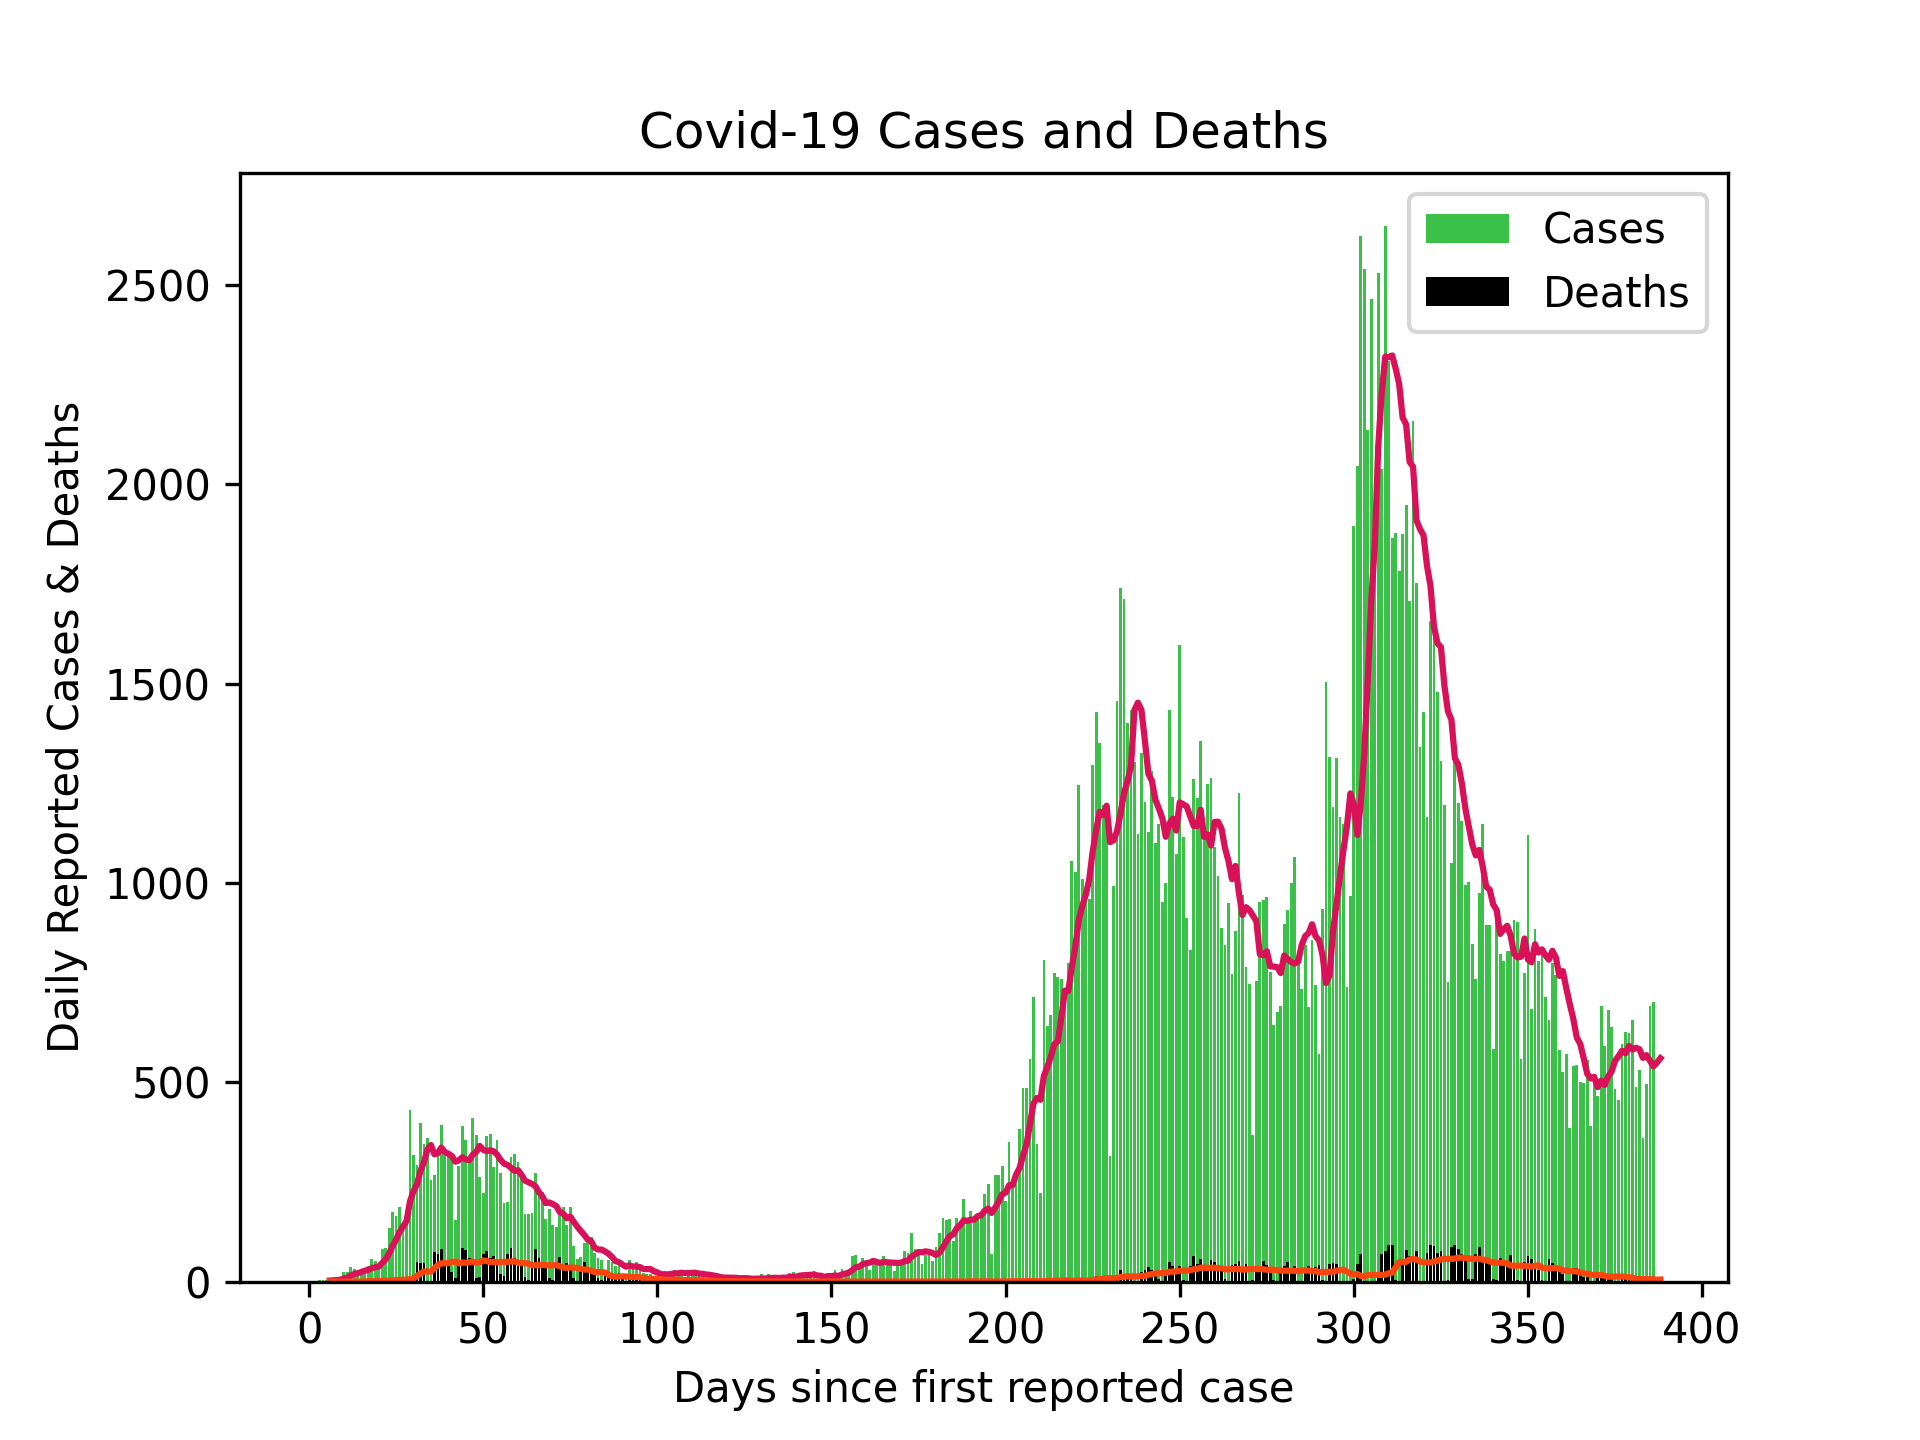
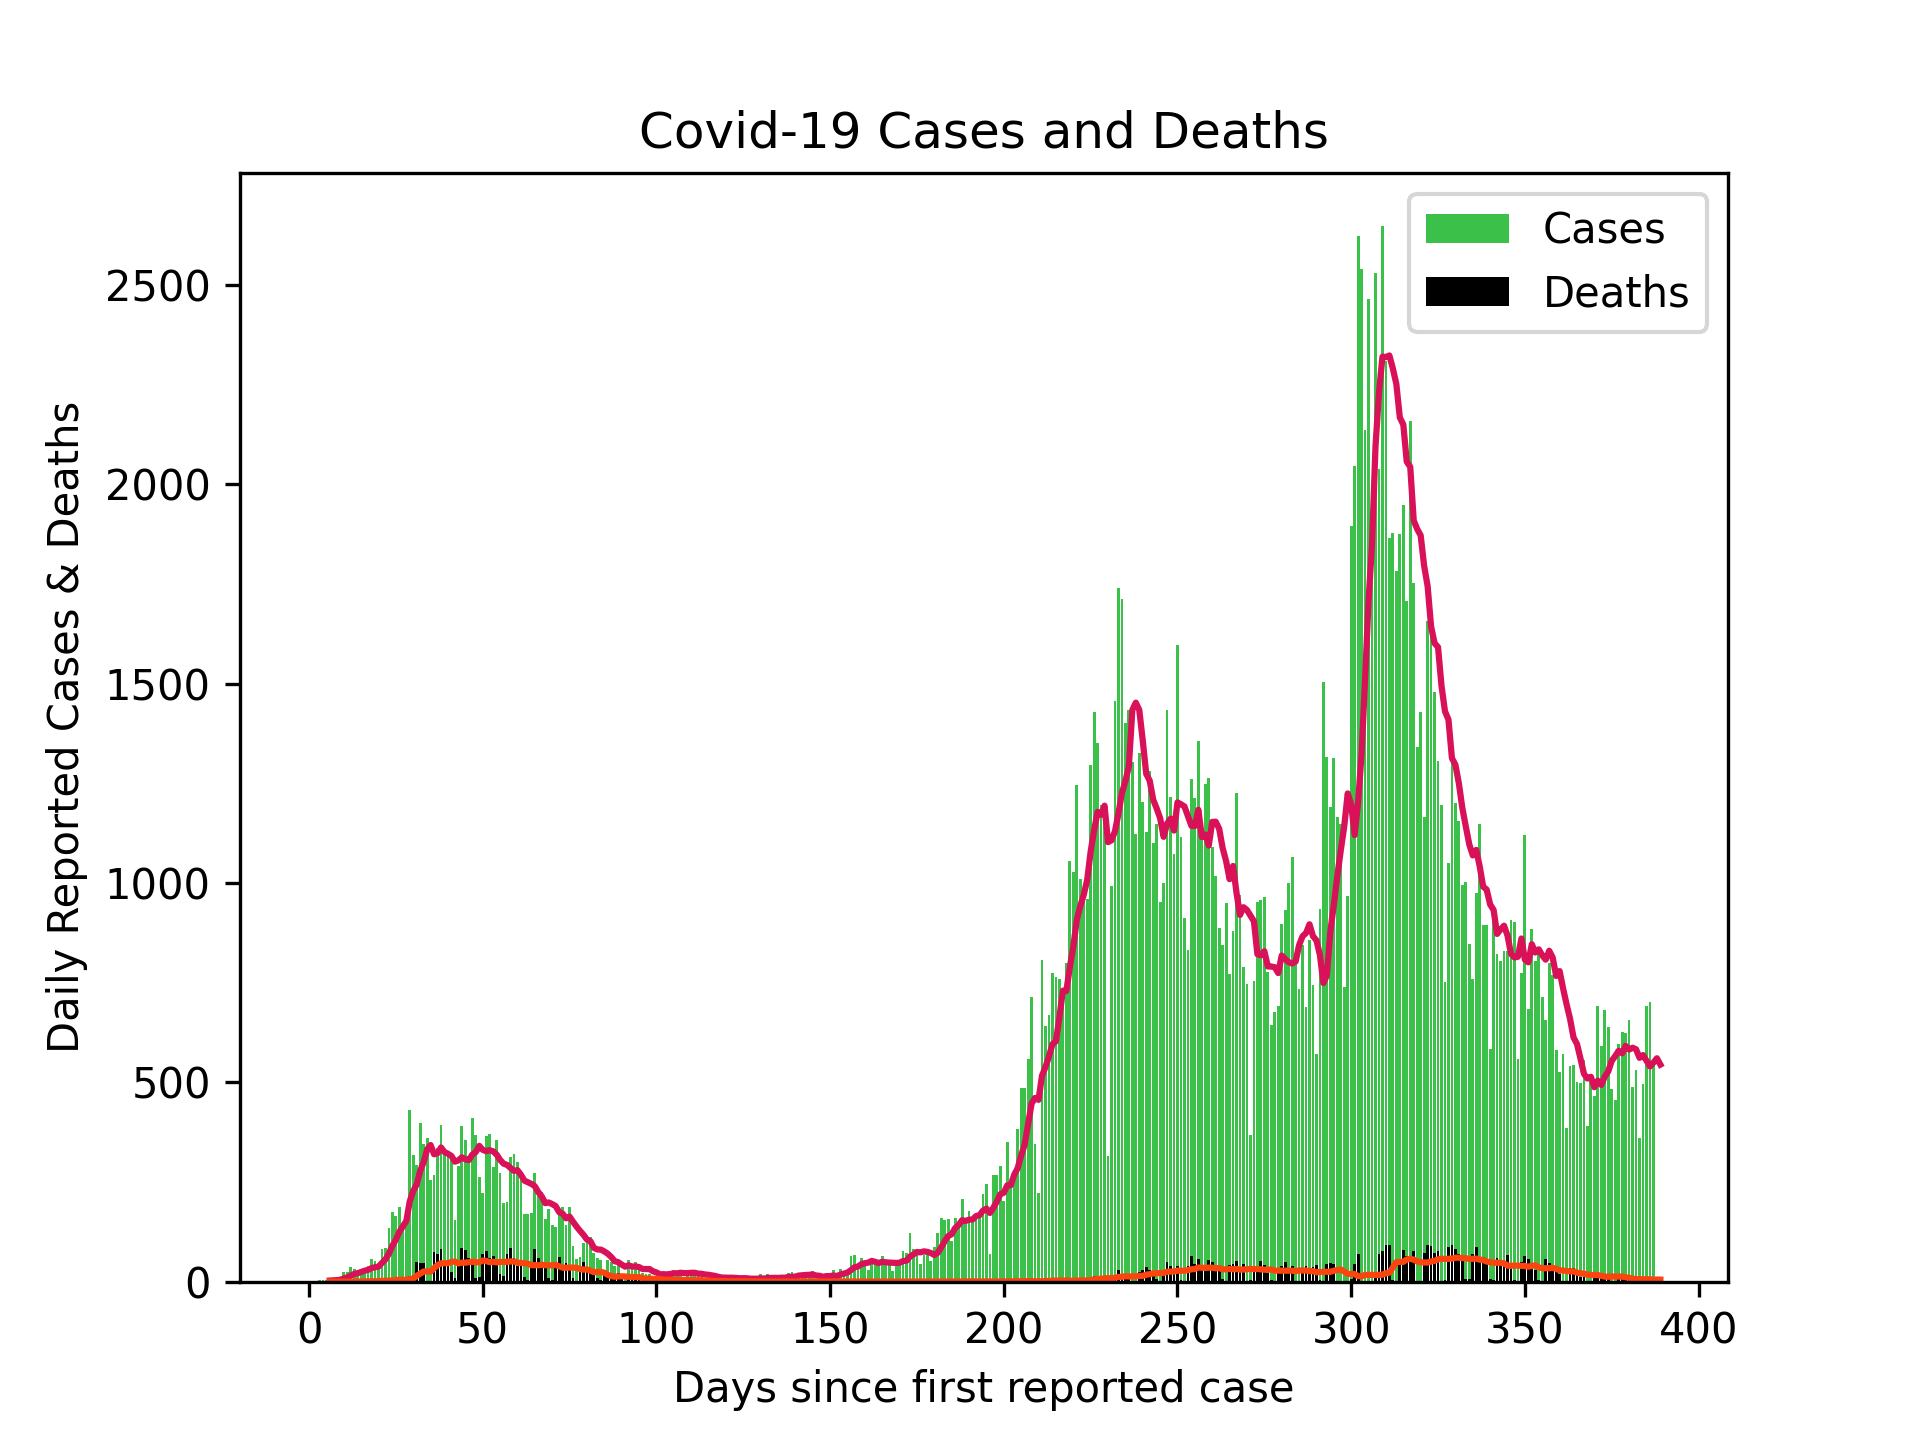
Updated Scottish cases 26/03/21

diff --git a/README.md b/README.md
@@ -1,4 +1,4 @@
-# Scottish Cases 25/03/21
+# Scottish Cases 26/03/21
 
 ![alt](scottish_cases.png)
 
